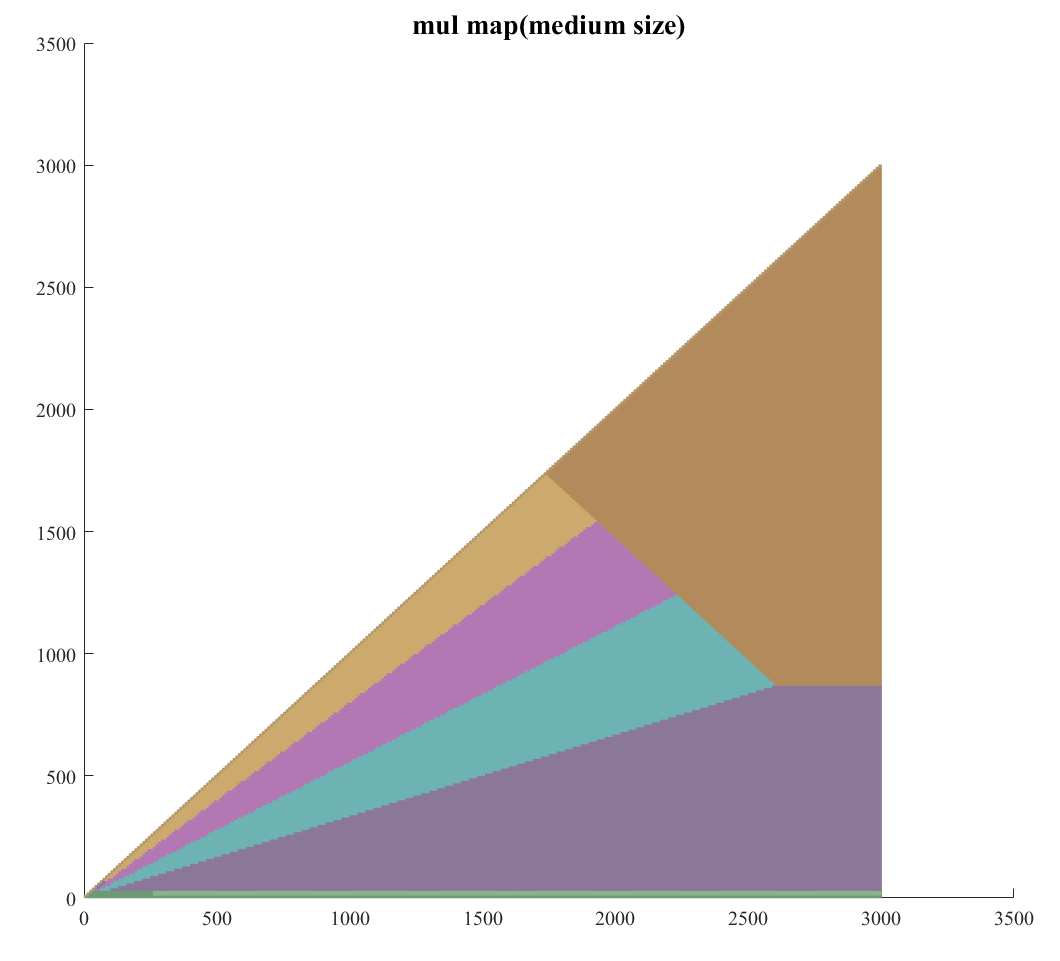
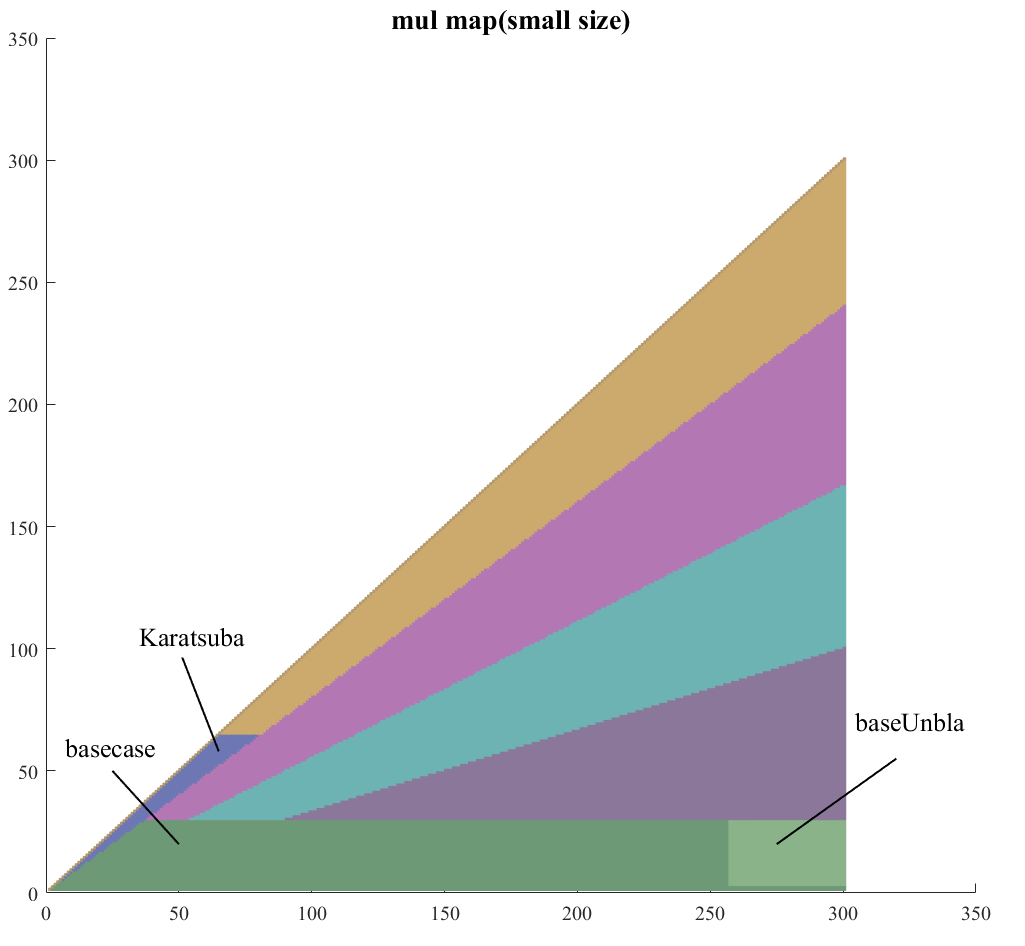
部分更改子目录下的cmake，在doc中绘制新的乘法地图，增加了乘法类型的文本标注

diff --git a/test/lammp/main.cpp b/test/lammp/main.cpp
@@ -42,23 +42,6 @@ int main() {
     //         std::cout << "failed" << std::endl;
     //     }
     // }
-    // test_factorial();
-    
-    std::cout << "Testing pow(2, 100)... " << std::flush;
-    if (test_pow(2, 100) == 0) std::cout << "PASSED" << std::endl;
-    else std::cout << "FAILED" << std::endl;
-
-    std::cout << "Testing pow(3, 50)... " << std::flush;
-    if (test_pow(3, 50) == 0) std::cout << "PASSED" << std::endl;
-    else std::cout << "FAILED" << std::endl;
-
-    std::cout << "Testing pow(10, 200)... " << std::flush;
-    if (test_pow(10, 200) == 0) std::cout << "PASSED" << std::endl;
-    else std::cout << "FAILED" << std::endl;
-
-    std::cout << "Testing pow(151, 1439)... " << std::flush;
-    if (test_pow(151, 1439) == 0) std::cout << "PASSED" << std::endl;
-    else std::cout << "FAILED" << std::endl;
-
+    // test_pow(151, 1439);
     return 0;
 }

diff --git a/test/lammp/src/test_pow.cpp b/test/lammp/src/test_pow.cpp
@@ -7,10 +7,9 @@ int test_pow(uint a0, uint exp) {
     mp_size_t bn = lmmp_pow_size_(a, 1, exp);
     mp_ptr b = (mp_ptr)lmmp_alloc(bn * sizeof(mp_limb_t));
     mp_ptr c = (mp_ptr)lmmp_alloc(bn * sizeof(mp_limb_t));
-
+    //std::cout << "1" << std::endl;
     mp_size_t n1 = lmmp_pow_1_(b, bn, a[0], exp);
     mp_size_t n2 = lmmp_pow_win3_(c, a, 1, exp);
-
     if (n1 != n2) {
         FREE(b);
         FREE(c);

diff --git a/test/lammp/include/test_short.hpp b/test/lammp/include/test_short.hpp
@@ -1,4 +1,4 @@
-#include <iostream>
+#include <iostream>
 #include "../../../include/lammp/lmmpn.h"
 #include "../../../include/lammp/numth.h"
 #include "../../../include/lammp/impl/_umul64to128_.h"

diff --git a/test/lammp/include/test_long.hpp b/test/lammp/include/test_long.hpp
@@ -1,4 +1,4 @@
-#include <iostream>
+#include <iostream>
 #include <random>
 #include <chrono>
 #include "../../../include/lammp/lmmpn.h"

diff --git a/benchmark/lammp/include/benchmark.hpp b/benchmark/lammp/include/benchmark.hpp
@@ -1,4 +1,4 @@
-#ifndef __BENCHMARK_HPP__
+#ifndef __BENCHMARK_HPP__
 #define __BENCHMARK_HPP__
 
 #include <chrono>
